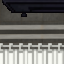
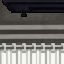
Design V1

Changed region(s): [[0.0, 0.6562, 1.0, 1.0]]

diff --git a/src/main/java/main/Game.java b/src/main/java/main/Game.java
@@ -9,8 +9,7 @@ public class Game {
     void main(String[] args) {
         window = new JFrame();
         window.setDefaultCloseOperation(JFrame.EXIT_ON_CLOSE);
-        window.setResizable(false);
-        window.setTitle("Terminal-2-28AM");
+        window.setResizable(false);x
 
         GamePanel gamePanel = new GamePanel();
         window.add(gamePanel);